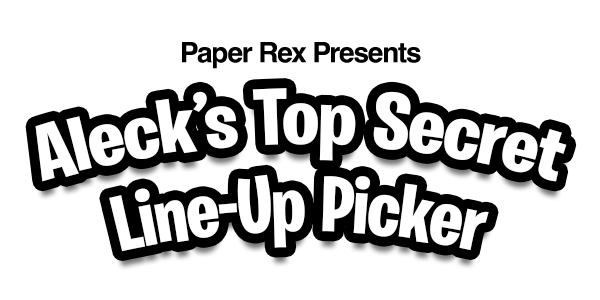
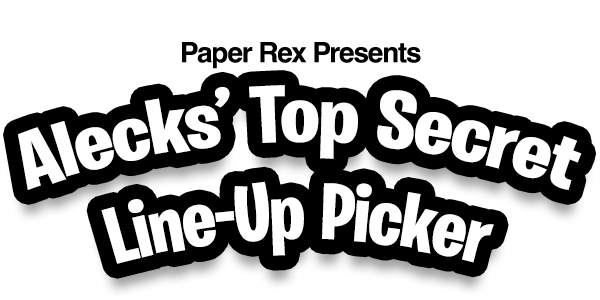
fix: general fixs, title

diff --git a/src/app/page.tsx b/src/app/page.tsx
@@ -81,7 +81,7 @@ const Home = () => {
         <img
           className="block w-full"
           src="/title.png"
-          alt="Paper Rex Presents Aleck’s Top Secret Line-Up Picker"
+          alt="Paper Rex Presents Alecks’ Top Secret Line-Up Picker"
         />
         <div className="flex flex-row pl-2 pr-2 gap-2">
           {slots.map((slot, index) => (

diff --git a/src/app/layout.tsx b/src/app/layout.tsx
@@ -2,8 +2,8 @@ import type { Metadata } from 'next'
 import './globals.css'
 
 export const metadata: Metadata = {
-  title: 'we need a title',
-  description: 'and a description',
+  title: 'Paper Rex | Alecks’ Top Secret Line-Up Picker',
+  description: 'Paper Rex Presents: Alecks’ Top Secret Line-Up Picker',
 }
 
 export default function RootLayout({
